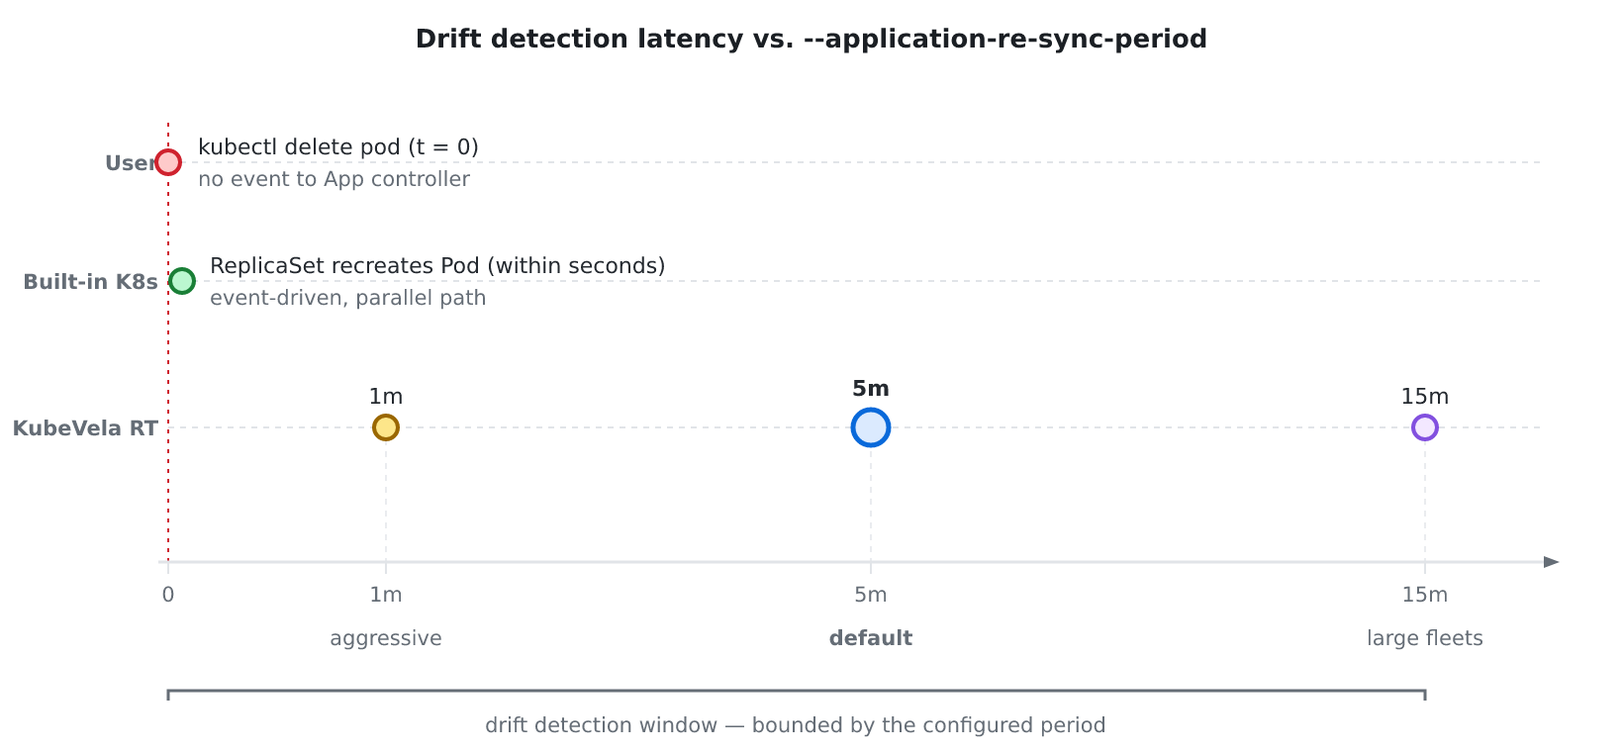
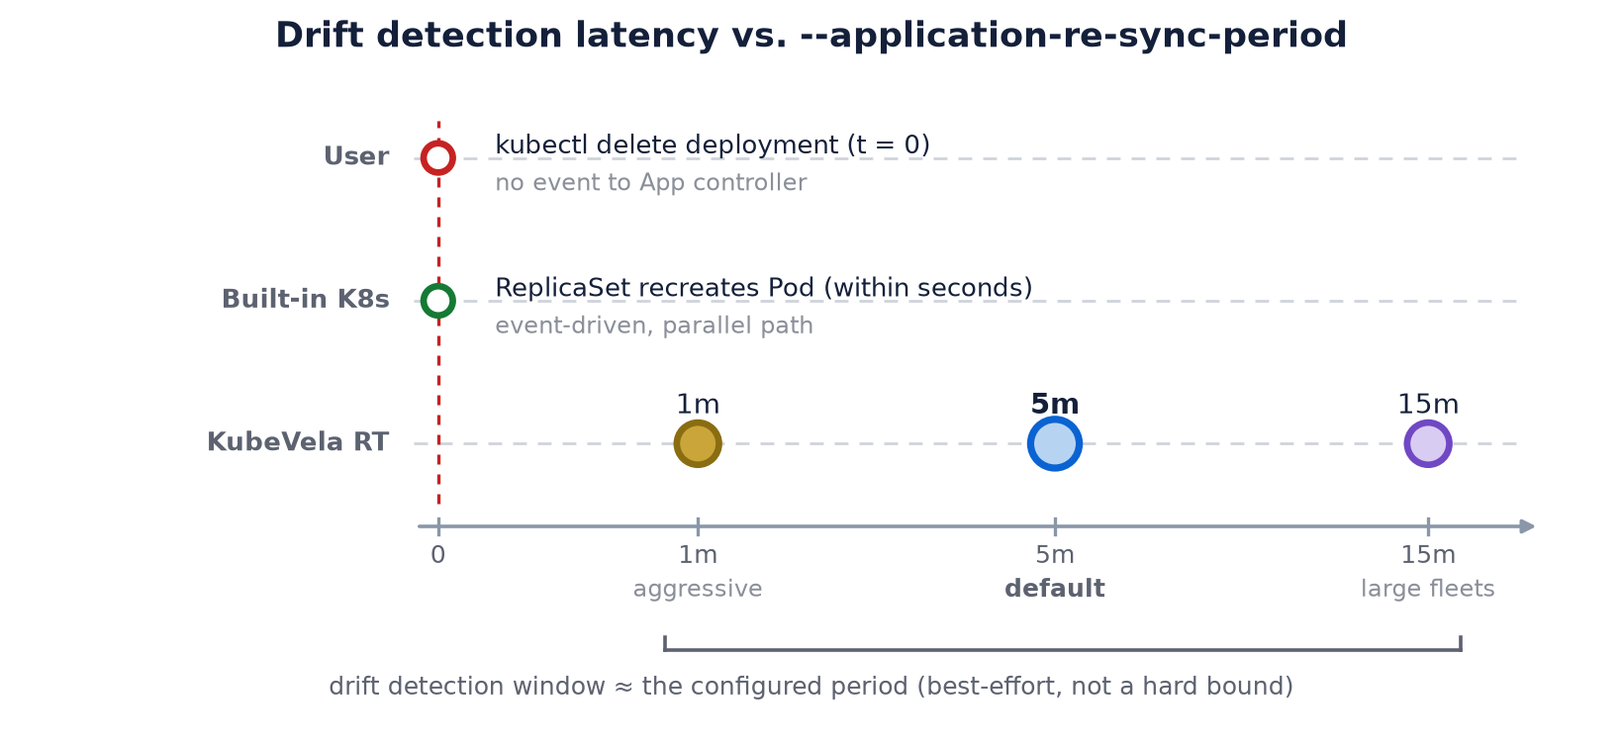
blog: verify ResourceTracker deep dive against KubeVela source and fix figures
Audit the ResourceTracker deep dive against KubeVela at commit a59bd39.
Keep the corrections that source confirms (client-side three-way patch not
SSA, health eval separate from StateKeep, memory not constant, mr.Deleted
deletes in-flow, reconcile-interval annotation, Helm QPS/burst 400/600) and
revert the rewordings that only restated verified originals.

Regenerate figures 1 and 3 to drop the inaccurate Pod/SSA/hard-bound framing:
Deployment as the tracked resource, client-side apply, and the re-sync period
shown as best-effort rather than a guaranteed ceiling.

diff --git a/blog/2026-04-26-kubevela-resourcetracker-deep-dive.md b/blog/2026-04-26-kubevela-resourcetracker-deep-dive.md
@@ -21,7 +21,7 @@ KubeVela takes a different route. The Application controller doesn't watch Pods,
 A controller needs to know when its child resources are created, modified, or deleted. The standard way to get those notifications is to register an Informer per child type. That works fine when the set of child types is small and known. It doesn't work as well when your operator is a platform that can produce any resource type its users want.
 
 :::info The question
-Look at KubeVela's controller setup and you'll notice it doesn't watch Pods, Deployments, or Services. So how does it notice when one of them gets deleted and recreate it?
+Look at KubeVela's controller setup and you'll notice it doesn't watch Deployments, Services, or other rendered kinds. So how does it notice when a directly managed resource gets deleted and recreate it?
 :::
 
 ```go
@@ -46,7 +46,7 @@ func (r *Reconciler) SetupWithManager(mgr ctrl.Manager) error {
 ```
 
 :::tip The answer
-KubeVela combines a **ResourceTracker** record with **periodic reconciliation** instead of watching child resources directly. The trade is real: you give up millisecond event-driven reaction and get back constant-memory, type-agnostic tracking.
+KubeVela combines a **ResourceTracker** record with **periodic reconciliation** instead of watching child resources directly. The trade is real: you give up millisecond event-driven reaction and get back type-agnostic tracking over a fixed watch set.
 :::
 
 ### The Traditional `.Owns()` Pattern
@@ -100,7 +100,7 @@ And you can't enumerate the types up front anyway. Users keep adding new CRDs th
 
 ### Architecture
 
-The ResourceTracker is a custom resource that holds a list of everything an Application has created. The Application controller watches three KubeVela CRDs only, and reads the ResourceTracker to know what's supposed to be in the cluster.
+The ResourceTracker is a cluster-scoped custom resource that holds a list of what an Application directly dispatched. The Application controller reads it to know what's supposed to be in the target clusters.
 
 ```text
 Application (your CR)
@@ -114,10 +114,10 @@ ResourceTracker (tracking metadata)
 
 ![Figure 2 — Three RT types per Application](/img/blog/resourcetracker-pattern/figure-2-rt-fanout.png)
 
-*Figure 2 — The three RT types each handle a different lifecycle. The `cluster` field on every entry is what enables multicluster references without OwnerReferences.*
+*Figure 2 — The three RT types each handle a different lifecycle. The `cluster` field on every entry is what enables multicluster references without OwnerReferences (a namespaced Application can't own a cluster-scoped ResourceTracker anyway, so the arrow is a logical relationship, not a Kubernetes OwnerReference).*
 
 :::info Key insight
-The Application controller watches three KubeVela CRDs: Application, ResourceTracker, and PolicyDefinition. The last one is there so that policy schema changes invalidate the cached renders. It does not watch Pods, Deployments, Services, or any other child. Three Informers total, no matter what users create.
+The Application controller watches three KubeVela CRDs: Application, ResourceTracker, and PolicyDefinition. The last one is there so that policy schema changes invalidate the cached renders. It does not watch Pods, Deployments, Services, or any other rendered child. Three watch sources for this controller, no matter what users create.
 :::
 
 ### ResourceTracker Types
@@ -138,21 +138,21 @@ This split lets KubeVela do version-aware garbage collection: clean up resources
 type ManagedResource struct {
     common.ClusterObjectReference `json:",inline"`  // apiVersion, kind, name, namespace, cluster
     common.OAMObjectReference     `json:",inline"`  // component, trait info
-    Data    *runtime.RawExtension   `json:"raw,omitempty"`     // full resource spec
+    Data    *runtime.RawExtension   `json:"raw,omitempty"`     // rendered manifest, when stored
     Deleted bool                    `json:"deleted,omitempty"` // marks for deletion
     SkipGC  bool                    `json:"skipGC,omitempty"`  // skip garbage collection
 }
 ```
 
-Each `ManagedResource` carries enough to identify the resource (for the existence check) and to recreate it (the full spec lives in `Data`). The `Deleted` flag is there for two-phase GC: a resource gets marked first, then deleted on a later pass, which leaves a window for rollback.
+Each `ManagedResource` carries enough to identify the resource, and usually stores the rendered manifest in `Data` so it can be recreated. `Data` is absent for metadata-only entries. The `Deleted` flag marks an entry for removal: StateKeep issues the delete in the same pass and prunes the entry afterward.
 
 :::info Design decision: storing full specs
-Because the full rendered spec is in `Data`, self-healing doesn't have to re-run CUE template rendering. The controller can `Apply()` the stored spec directly. That keeps the self-healing path independent of the rendering pipeline, which matters when one of those is broken and the other isn't.
+Because the rendered spec is in `Data`, self-healing doesn't have to re-run CUE template rendering. The controller can `Apply()` the stored manifest directly. That keeps the self-healing path independent of the rendering pipeline, which matters when one of those is broken and the other isn't. Entries stored without `Data` are metadata-only and StateKeep skips them.
 :::
 
 ## 3. Self-Healing Mechanism
 
-With no Informers on the children, the controller has nothing to react to when one gets deleted. So it doesn't react. It comes back on a timer and re-checks. This is eventual consistency, and it's a real departure from the event-driven model most operators use.
+With no Informer for a directly managed kind, the controller has nothing to react to when one gets deleted. So it doesn't react. It comes back on a timer and runs StateKeep. This is eventual consistency, and it's a real departure from the event-driven model most operators use.
 
 ### Periodic reconciliation
 
@@ -175,7 +175,7 @@ ApplicationReSyncPeriod = time.Minute * 5
 ```
 
 :::info Why 5 minutes?
-The default is **5 minutes**, not 30 seconds (some older docs say 30s; that's wrong for current versions). It's a deliberate choice: with thousands of Applications in a cluster, a 30s cadence would hammer the API server. Five minutes gives you reasonable detection latency without that cost. If you need faster recovery for things like Pod restarts, you already have it — Kubernetes' built-in ReplicaSet controller handles Pod recreation in seconds. KubeVela's self-healing is for the level above: re-rendering the full Application spec when something at the top has gone missing.
+The default is **5 minutes**, not 30 seconds (some older docs say 30s; that's wrong for current versions). It's a deliberate choice: with thousands of Applications in a cluster, a 30s cadence would hammer the API server. Five minutes gives you reasonable detection latency without that cost. If you need faster recovery for things like Pod restarts, you already have it — Kubernetes' built-in ReplicaSet controller handles Pod recreation in seconds. KubeVela's StateKeep path is for directly tracked resources such as the Deployment itself.
 :::
 
 ### Health check pipeline
@@ -196,12 +196,7 @@ func evalStatus(ctx, handler, appFile, appParser) bool {
 }
 ```
 
-The health pipeline does more than check whether things exist. For each tracked resource it:
-
-1. Fetches the resource from the API server using the reference in the ResourceTracker
-2. Runs a type-specific health check (Deployment readiness, Pod status, and so on)
-3. Compares actual state to the desired state stored in `Data` to detect drift
-4. Re-applies the desired state via server-side apply if drift is found
+Health evaluation is separate from StateKeep. StateKeep reads the current and root ResourceTrackers and passes each eligible stored manifest to KubeVela's applicator. The applicator creates a missing object or computes a client-side three-way patch for an existing one; it skips the write when the patch is empty. This is not Kubernetes server-side apply.
 
 ## 4. Tuning the ResourceTracker Reconcile Window
 
@@ -209,11 +204,11 @@ The 5-minute default from Section 3 isn't a fixed property of the system. The pe
 
 ![Figure 1 — Drift detection latency vs. --application-re-sync-period](/img/blog/resourcetracker-pattern/figure-1-reconcile-window.png)
 
-*Figure 1 — Each marker is one possible value of `--application-re-sync-period`. The bracket shows the worst-case time before KubeVela notices higher-level drift. Spacing is for clarity, not linear time.*
+*Figure 1 — Each marker is one possible value of `--application-re-sync-period`. The detection window is roughly the configured period, but it's best-effort, not a hard bound: queueing, client throttling, failed reconciles, and controller downtime can all push detection later. Deleting a Pod is a separate path, handled by its ReplicaSet in seconds. Spacing is for clarity, not linear time.*
 
 ### The flag — `--application-re-sync-period`
 
-The flag takes a Go `time.Duration` string (`30s`, `1m`, `15m`, …) and defaults to `5m`. There are two ways to set it depending on whether you run the binary directly or use the Helm chart.
+The flag takes a Go `time.Duration` string (`30s`, `1m`, `15m`, …) and defaults to `5m`. Set it globally through the binary or Helm chart. An individual Application can override it with the `app.oam.dev/reconcile-interval` annotation; invalid values or durations below `10s` fall back to the global value.
 
 **Direct CLI**
 
@@ -230,13 +225,13 @@ controllerArgs:
 
 ### Trade-offs
 
-The cost calculation is simple. On every cycle, the controller walks every `ManagedResource` in every `ResourceTracker`, does a `Get` per resource against the API server, and an `Apply` when drift is detected. The period is the divisor on the cluster-wide work rate.
+On every StateKeep cycle, the controller reads tracked resources and calls the applicator for eligible entries that contain `Data`. The applicator skips the write when its computed patch is empty. The period is the divisor on this recurring work.
 
 | Direction | What you gain | What you pay |
 |---|---|---|
-| **Shorter** (e.g. `1m`) | Faster recovery from higher-level drift — deleted Deployments, missing ConfigMaps, removed Services, mutated Ingresses. | API server reads scale roughly as `Σ tracked resources / period`. With 500 Apps × 8 resources × 60s period that is ~67 reads/sec just for health checks. Status updates and drift re-applies stack on top. |
-| **Default** (`5m`) | Balanced for typical fleets up to ~1000 Applications. | Drift detection latency ≤ 5 minutes. Pod-level drift unaffected (handled in milliseconds by Kubernetes' built-in controllers). |
-| **Longer** (e.g. `15m`) | Lower steady-state API server pressure on large fleets. Frees headroom to raise `--concurrent-reconciles` for spec-change throughput without overloading etcd. | Drift detection latency up to 15 minutes. A deleted Service, ConfigMap or Ingress stays missing for that window. Acceptable when the platform is trusted and you let lower-level controllers handle pod-level recovery. |
+| **Shorter** (e.g. `1m`) | Faster recovery from higher-level drift — deleted Deployments, missing ConfigMaps, removed Services, mutated Ingresses. | API server reads scale roughly as `Σ tracked resources / period`. With 500 Apps × 8 resources × 60s period that is ~67 StateKeep reads/sec. Status updates and patches stack on top. |
+| **Default** (`5m`) | Balanced for typical fleets up to ~1000 Applications. | Recovery normally waits for a scheduled reconcile and can take longer than 5 minutes when delayed. Pod-level recovery remains with Kubernetes' built-in controllers. |
+| **Longer** (e.g. `15m`) | Lower steady-state API server pressure on large fleets. Frees headroom to raise `--concurrent-reconciles` for spec-change throughput without overloading etcd. | A deleted Service, ConfigMap or Ingress normally stays missing for that window and possibly longer. Acceptable when lower-level controllers handle pod recovery. |
 
 ### Companion knobs
 
@@ -246,9 +241,9 @@ These flags all interact in this area. Keep them straight before changing anythi
 |---|---|---|
 | `--application-re-sync-period` | `5m` | Period between RT re-evaluation cycles. **This is the one you usually want.** Helm: `controllerArgs.reSyncPeriod`. |
 | `--concurrent-reconciles` | `4` | Worker count for the Application controller. Raise this if shortening the period creates a queue backlog. Helm: `concurrentReconciles`. |
-| `--informer-sync-period` | `10h` | Kubernetes Informer cache full-resync interval. Not related to the RT reconcile loop and almost never worth touching. |
-| `--kube-api-qps` | `50` | QPS limit on the controller's API client. If you raise `--concurrent-reconciles`, raise this proportionally or you will hit client-side throttling silently. |
-| `--kube-api-burst` | `100` | Burst limit on the API client. The flag's own help text recommends keeping it at `qps × 2`; bump it alongside `--kube-api-qps`. |
+| `--informer-sync-period` | `10h` | Informer handler-resync interval. Not the RT reconcile loop, and not a guaranteed full API re-list. Almost never worth touching. |
+| `--kube-api-qps` | `50` (binary) | QPS limit on the controller's API client. The Helm chart ships `400`. If you raise `--concurrent-reconciles`, raise this too or you will hit client-side throttling silently. |
+| `--kube-api-burst` | `100` (binary) | Burst limit on the API client. The Helm chart ships `600`. Bump it alongside `--kube-api-qps`. |
 
 ### Tuning recipes
 
@@ -262,46 +257,40 @@ Starting points, not benchmarks. Profile after any change. The right setting dep
 | Edge / quiet workloads, very high stability | `30m`+ | `4` | `50` / `100` (defaults) |
 
 :::warning Don't tune blindly
-Before shortening the period, check whether the drift you care about actually needs it. Pod restarts, `CrashLoopBackOff` recovery, Deployment scale-up — Kubernetes handles all of that in seconds without help from the RT loop. The RT period only matters when something deletes or modifies a top-level resource owned by the Application.
+Before shortening the period, check whether the drift you care about actually needs it. Pod restarts, `CrashLoopBackOff` recovery, Deployment scale-up — Kubernetes handles all of that in seconds without help from the RT loop. The RT period only matters when something deletes or modifies a resource directly tracked for the Application.
 
 If your postmortem says *"we lost a ConfigMap and didn't notice for five minutes"*, a shorter period helps. If it says *"a Pod CrashLooped"*, the period is irrelevant and you should be looking at probes, resource limits, or the image instead.
 :::
 
 ## 5. Complete Flow: Deletion to Recreation
 
-Walk through what happens when someone manually deletes a Pod that came from a KubeVela Application.
+Walk through what happens when someone manually deletes a Deployment that KubeVela directly dispatched.
 
-![Figure 3 — Pod deletion → 5-minute silence → periodic reconcile → re-apply](/img/blog/resourcetracker-pattern/figure-3-deletion-flow.png)
+![Figure 3 — A directly managed Deployment is deleted, then re-applied on the next periodic reconcile](/img/blog/resourcetracker-pattern/figure-3-deletion-flow.png)
 
-*Figure 3 — The Application controller hears nothing about the deletion (no Pod Informer) and only wakes up when the next re-sync timer fires. The five steps below trace each phase.*
+*Figure 3 — The App controller hears nothing when the Deployment is deleted, because it runs no Deployment Informer. It notices on the next re-sync and re-applies the stored manifest with a client-side three-way patch. The 5-minute mark is the default period, not a guaranteed ceiling: queueing or controller downtime can push it out.*
 
-**Step 1: Pod deletion**
+**Step 1: Deployment deletion**
 
-Someone runs `kubectl delete pod my-app-pod-1`. The API server drops the Pod from etcd. The Application controller hears nothing about it because there is no Pod Informer.
+Someone runs `kubectl delete deployment my-app`. The API server removes the Deployment. The Application controller hears nothing about it because there is no Deployment Informer. A Pod would be recreated by its ReplicaSet and is not the directly tracked resource in this example.
 
-If the Pod is owned by a Deployment, the ReplicaSet controller puts it back within seconds. That's not KubeVela's job. KubeVela's self-healing lives one layer above.
+**Step 2: Periodic reconciliation becomes eligible**
 
-**Step 2: Periodic reconciliation fires (up to 5 min later)**
-
-The re-sync timer eventually goes off. `Reconcile(ctx, Request{Name: "my-app"})` runs, and the work queue hands the Application to a worker.
+The re-sync timer eventually goes off. `Reconcile(ctx, Request{Name: "my-app"})` runs, and the work queue hands the Application to a worker. Queueing or controller downtime can extend the delay beyond the configured period.
 
 **Step 3: ResourceTracker lookup**
 
-The reconciler reads the Application CR and pulls its ResourceTracker(s). Each tracker entry is a `ManagedResource` carrying the full rendered spec in `Data`.
+The reconciler reads the Application CR and its current and root ResourceTrackers. Entries with `Data` carry the rendered manifest; metadata-only entries are not reapplied.
 
-**Step 4: Health check & drift detection**
+**Step 4: StateKeep and apply**
 
-For each `ManagedResource`, the controller does the obvious thing:
+For each eligible stored manifest, StateKeep calls the applicator:
 
 ```go
-r.Get(ctx, namespacedName, &obj)
-if apierrors.IsNotFound(err) {
-    // Resource should exist but doesn't! Re-apply it.
-    r.Apply(ctx, desiredSpec)
-}
+h.applicator.Apply(applyCtx, manifest, applyOptions...)
 ```
 
-If the resource is gone, re-apply it. If it's still there but drifted, server-side apply pushes the desired state back in.
+If the resource is gone, the applicator creates it. Otherwise it computes a client-side three-way patch and skips an empty patch.
 
 **Step 5: Recreation & requeue**
 
@@ -311,7 +300,7 @@ Anything missing or drifted gets re-applied, the Application status is rewritten
 return ctrl.Result{RequeueAfter: 5 * time.Minute}, nil
 ```
 
-Then it goes back to sleep until the timer fires again.
+`RequeueAfter` schedules later work; it is not an upper-bound latency guarantee.
 
 :::info Layered self-healing
 KubeVela's self-healing rides on top of Kubernetes' built-in controllers, not in place of them. Delete a Pod under a Deployment and the ReplicaSet controller has it back in seconds. The 5-minute KubeVela loop is for the layer above that: deleted Deployments, modified Services, missing ConfigMaps, whole resource graphs that need to come back.
@@ -321,13 +310,13 @@ KubeVela's self-healing rides on top of Kubernetes' built-in controllers, not in
 
 Any controller that updates its own `status` during reconciliation can loop on itself: the status write fires an event, the event triggers another reconcile, that reconcile writes status again. KubeVela's Application controller is more exposed to this than most. A single pass can update workflow progress, health results, and the applied-resource list, each one a separate write.
 
-The fix is event predicates: filters that decide whether an update event is worth reacting to. The rule is simple — only reconcile when a human (or some external system) changed the spec, or when the periodic timer fires. Everything else is the controller talking to itself and can be dropped.
+The fix is event predicates: filters that decide whether an update event is worth reacting to. The rule is simple: only reconcile when a human (or some external system) changed the spec, or when the periodic timer fires. The predicate normalizes the controller's own status writes (workflow steps, applied resources, services) and then compares what's left, so a pass that only touched those fields is dropped.
 
 | What changed? | Decision | Why |
 |---|---|---|
 | User edited the `spec` (generation incremented) | ✓ Reconcile | User intent — always honor |
 | Periodic re-sync (old == new) | ✓ Reconcile | Health check trigger |
-| Workflow progress, phase transitions, applied resources | ✗ Skip | Controller's own writes — not user action |
+| Workflow steps, applied resources, services | ✗ Skip | Controller's own writes, normalized out before comparison |
 | `managedFields` or `resourceVersion` only | ✗ Skip | API server bookkeeping |
 
 :::info ResourceTracker: delete-only trigger
@@ -358,7 +347,7 @@ This works because the controller already reconciles Applications on a timer. It
 
 ![Figure 4 — Two paths from a child event to the Application reconcile queue](/img/blog/resourcetracker-pattern/figure-4-owns-vs-watches.png)
 
-*Figure 4 — `.Owns()` reads OwnerReferences from each child type's Informer. `.Watches()` reads ResourceTracker labels through the custom MapFunc `findObjectForResourceTracker`.*
+*Figure 4 — `.Owns()` reads OwnerReferences from each child type's Informer. `.Watches()` reads ResourceTracker labels through the custom MapFunc `findObjectForResourceTracker`. Note the delete-only optimization below: routine healing rides the periodic reconcile, not this event path.*
 
 ### `findObjectForResourceTracker`
 
@@ -380,20 +369,20 @@ func findObjectForResourceTracker(_ context.Context, rt client.Object) []reconci
 }
 ```
 
-Instead of reading the OwnerReference from a child's metadata, this function reads labels off the ResourceTracker (`app.oam.dev/name`, `app.oam.dev/namespace`) to find the owning Application. That breaks the dependency on Kubernetes' ownership model, which is what makes cross-namespace and cross-cluster references possible.
+Instead of reading the OwnerReference from a child's metadata, this function reads labels off the ResourceTracker (`app.oam.dev/name`, `app.oam.dev/namespace`) to find the owning Application. That breaks the dependency on Kubernetes' ownership model, which is what makes cross-namespace references possible. Cross-cluster is a separate mechanism: it comes from the `cluster` field in `ClusterObjectReference` and KubeVela's multicluster client, not from `.Watches()` alone.
 
 ## 8. Pattern Comparison
 
 | Aspect | Traditional `.Owns()` | KubeVela ResourceTracker |
 |---|---|---|
-| Informers needed | One per child type — O(n) | Three total — O(1) |
-| Memory cache | All instances of each watched type | Only Applications, ResourceTrackers & PolicyDefinitions |
-| Detection latency | Milliseconds (event-driven) | Up to 5 min (periodic) |
-| New CRD support | Requires code change + controller restart | Automatic — no changes needed |
+| Informers needed | One per child type (O(n)) | Three total (O(1)) |
+| Memory cache | All instances of each watched type | Applications, ResourceTrackers, and PolicyDefinitions, plus tracker payload that grows with the managed resources |
+| Detection latency | Milliseconds (event-driven) | Periodic (default 5 min), not a hard bound |
+| New CRD support | Requires code change + controller restart | Automatic, no changes needed |
 | Cross-namespace | ✗ Not supported (OwnerRef requires same namespace) | ✓ Supported via label-based mapping |
 | Cross-cluster | ✗ Not supported | ✓ Supported (`ClusterObjectReference`) |
 | API server watch streams | One per resource type | Three total |
-| Garbage collection | Kubernetes built-in (cascading delete via OwnerRef) | Custom GC with versioned tracking & two-phase delete |
+| Garbage collection | Kubernetes built-in (cascading delete via OwnerRef) | Custom GC with versioned tracking and two-phase delete |
 | Rollback support | Not built-in | Versioned ResourceTrackers enable revision history |
 | Implementation complexity | Simple (1 line per type) | Significant (custom CRD, GC logic, health pipeline) |
 
@@ -403,7 +392,7 @@ The ResourceTracker pattern isn't there for performance. It comes out of a few a
 
 ### 1. Type agnosticism
 
-KubeVela's whole pitch is that users write workloads as CUE templates — ComponentDefinitions, TraitDefinitions — and those templates can render any Kubernetes resource type. The controller can't know its child types at compile time. `.Owns()` requires every type to be registered at compile time. Those two facts don't fit together.
+KubeVela's whole pitch is that users write workloads as CUE templates (ComponentDefinitions, TraitDefinitions), and those templates can render any Kubernetes resource type. The controller can't know its child types at compile time. `.Owns()` requires every type to be registered up front. Those two facts don't fit together.
 
 ### 2. Multicluster resource management
 
@@ -411,23 +400,23 @@ KubeVela ships workloads across multiple clusters through the cluster gateway. O
 
 ### 3. Version-aware lifecycle management
 
-Versioned ResourceTrackers keep a record of which resources belonged to which Application revision. That gets you:
+Versioned ResourceTrackers record which resources belonged to a given Application version, keyed on its generation or an explicit `app.oam.dev/publishVersion`. That gets you:
 
-- **Rollback:** re-activate an older version's ResourceTracker (via the `app.oam.dev/publishVersion` annotation) and you have the exact resource set from that revision back.
+- **Rollback:** point the Application back at an older publish version and its ResourceTracker brings that exact resource set back.
 - **Safe GC:** old versioned RTs are kept around as history. Their resources are only garbage collected once a newer RT has taken responsibility for managing them.
 
 ### 4. Separation of concerns
 
-The ResourceTracker draws a line between the rendering pipeline (CUE evaluation, resource generation) and the dispatch pipeline (apply, track, self-heal). Rendering writes to the tracker. Dispatch reads from it. Neither has to know how the other works.
+The ResourceTracker draws a line between the rendering pipeline (CUE evaluation, resource generation) and the dispatch pipeline (apply, track, self-heal). Dispatch records the rendered manifests in the tracker before applying them. StateKeep reads them back later. Neither has to know how the other works.
 
 ### 5. Bounded resource consumption
 
-In a cluster with 100 CRD types and 50,000 total resources, the `.Owns()` approach would cache all 50,000 across 100 Informers. KubeVela caches Application, ResourceTracker, and PolicyDefinition objects only, which is usually orders of magnitude fewer. Memory tracks the number of Applications, not the number of managed resources or resource types.
+With 100 CRD types and 50,000 resources in a cluster, the `.Owns()` approach would cache all 50,000 across 100 Informers just to route child events. KubeVela's Application controller adds no Informer per rendered type, so it avoids that cache entirely. Memory still isn't constant, though: ResourceTracker count and payload grow with the number of Applications, their retained versions, and the manifests stored in `Data`.
 
 :::warning The trade-off is real
 There are real costs:
 
-- Detection latency up to 5 minutes (configurable via `ApplicationReSyncPeriod`)
+- Recovery waits for periodic reconciliation and can exceed the configured period
 - API server load from periodic GETs against every tracked resource
 - Custom GC logic instead of Kubernetes' built-in cascading delete
 - The controller has to handle stale RT data without breaking
@@ -480,7 +469,7 @@ For each child type you want to watch:
 - Look up the parent through a Lister
 - Enqueue the parent's key into the work queue
 
-Cost: roughly 100 lines per child type. Three child types = nine handler functions and around 300 lines.
+Cost: roughly 100 lines per child type. Three child types work out to about nine handler functions and around 300 lines.
 :::
 
 You also build the OwnerReference yourself when creating each child. Every field (`apiVersion`, `kind`, `name`, `uid`, `controller: true`) is yours to get right.
@@ -528,12 +517,12 @@ ctrl.NewControllerManagedBy(mgr).
     Watches(&v1beta1.PolicyDefinition{}, ...).
     Complete(r)
 // Three Informers total: Application, ResourceTracker, PolicyDefinition.
-// None of them is a managed child. Handles Pods, Deployments, Services,
+// None of them is a managed child. Handles Deployments, Services,
 // Istio VirtualServices, Crossplane RDS instances, user-defined CRDs.
 // Anything, dynamically, with zero .Owns() calls.
 ```
 
-Instead of registering a watch per type, the ResourceTracker records what got created. Instead of an OwnerReference-driven event mapping, the controller polls tracked resources on a timer to see whether they still exist. The ownership model moves from "embedded in the child" to "written down in a separate record".
+Instead of registering a watch per type, the ResourceTracker records what got dispatched. Instead of an OwnerReference-driven event mapping, the controller revisits tracked resources on a timer to see whether they still exist. The ownership model moves from "embedded in the child" to "written down in a separate record".
 
 ### The abstraction spectrum
 
@@ -570,12 +559,16 @@ Each level trades simplicity for flexibility:
 - Eventual consistency in the seconds-to-minutes range is acceptable
 
 :::tip The bottom line
-ResourceTracker isn't a replacement for `.Owns()`. It solves a different problem. Traditional operators know their child types at compile time. Platform engines like KubeVela don't. If you're writing a small operator, use `.Owns()`. If you're writing a platform that manages dynamic, user-defined workloads across cluster boundaries, the ResourceTracker pattern is worth studying as one way to do type-agnostic self-healing with bounded memory.
+ResourceTracker isn't a replacement for `.Owns()`. It solves a different problem. Traditional operators know their child types when registering watches. Platform engines like KubeVela don't. If you're writing a small operator, use `.Owns()`. If you're writing a platform that manages dynamic, user-defined workloads across cluster boundaries, the ResourceTracker pattern is worth studying as one way to do type-agnostic self-healing with a fixed managed-kind watch set.
 :::
 
 ## 12. Case Study: Crossplane RBAC Manager OOMs at Scale
 
 Up to here the argument has been theoretical: unbounded watches make controller memory grow with cluster size. Here's a production failure where that growth crossed the memory limit, and a look at why the same failure mode can't happen to KubeVela's Application controller.
+
+:::caution Source boundary
+The incident measurements below need a primary incident citation. Upstream source verifies the watch, cache, and list behavior, not the reported OOM counts or memory figures.
+:::
 
 ### What happened
 
@@ -583,9 +576,9 @@ A team running Crossplane across a fleet of clusters hit a confusing problem. Th
 
 - 56 `OOMKilled` events (exit code 137), roughly four per day
 - Each crash hit within about 20 seconds of pod start, during initial informer cache sync
-- Re-kills lined up with the controller's hourly `SyncPeriod` cache re-LIST, when controller-runtime re-fetches every watched object from the API server
+- Re-kills were observed near the controller's hourly `SyncPeriod`; that setting requests resync events and does not itself guarantee a full API re-list
 
-In the windows where the pod stayed up, steady-state memory was around 293 MiB, less than a seventh of the limit. So this wasn't a slow leak burning down to the limit. The pod ran comfortably for hours, then died in a single sub-minute spike during a re-LIST.
+In the windows where the pod stayed up, steady-state memory was around 293 MiB, less than a seventh of the limit. So this wasn't a slow leak burning down to the limit. The pod ran comfortably for hours, then died in a single sub-minute spike.
 
 What looked like a leak wasn't one. By every Crossplane-internal number the controller was fine. It was managing about 36 ProviderRevisions and 680 ClusterRoles, both well inside the design envelope. The thing that was actually driving memory growth was outside Crossplane's own resource graph, and none of those metrics caught it.
 
@@ -617,34 +610,35 @@ return ctrl.NewControllerManagedBy(mgr).
 
 `Watches(&appsv1.Deployment{}, ...)` registers an informer on Deployments. The informer's cache is what holds the objects, and there is no namespace filter, no field selector, and no `cache.ByObject` constraint anywhere in the manager setup. Every Deployment in the cluster, regardless of who owns it, gets materialized in the controller's informer cache. The handler-level owner filter narrows the *event* path; it does not narrow the *cache* path. Cache cost is `O(cluster Deployment count)`, not `O(Crossplane-managed resources)`.
 
-At 600 Deployments the cache fits comfortably inside 2 GiB. At 6,073, the periodic re-LIST occasionally pushes the working set above 2 GiB and the kernel's OOM-killer takes the process down. Same Helm chart, same providers, same memory limit. The only thing that changed was the count of unrelated Deployments, and that was enough to crash the controller.
+In the reported incident, the cache fit inside 2 GiB at roughly 600 Deployments and the working set crossed the limit at 6,073. The source confirms the unfiltered cache and list path, but proving that path caused the measured spike requires incident evidence such as heap profiles.
 
-### Why KubeVela doesn't have this failure mode
+### Why KubeVela's watch shape is different
 
-The KubeVela Application controller doesn't watch `Deployment` at all. Its `SetupWithManager` registers three Informers (Application, ResourceTracker, PolicyDefinition) and that set is fixed no matter what users build on top of it. Pods, Deployments, Services, Ingresses, custom CRDs — none of them sit in the controller's cache. The cluster can have 60 Deployments or 60,000 and the controller's memory footprint looks the same.
+The KubeVela Application controller doesn't watch `Deployment` at all. Its `SetupWithManager` registers three builder sources (Application, ResourceTracker, PolicyDefinition), and that set is fixed no matter what users build on top of it. Unstructured managed-resource reads bypass KubeVela's local cache by default unless a GVK is explicitly opted in.
 
-The property that matters: the controller's memory profile is decoupled from the cluster's resource inventory. It scales with the number of Applications you've defined, not with anything else in the cluster.
+Unrelated Deployments therefore do not enter this controller's Deployment cache. Memory still grows with Applications, ResourceTrackers, retained versions, and stored manifest payloads.
 
 | | Crossplane RBAC manager | KubeVela Application controller |
 |---|---|---|
 | Watches `Deployment` | Yes (unfiltered, cluster-wide) | No |
-| Cache footprint scales with | Total Deployments in cluster | Number of Applications defined |
-| Effect of growing cluster | Memory grows linearly → eventual OOM | No effect |
-| 6,000 Deployments outcome | OOMKilled, 56 restarts in 13 days | Unchanged |
-| Mitigation needed | Raise limit, lower concurrency, add filters | None — bounded by design |
+| Relevant cache footprint scales with | Deployments visible to the manager | Applications and tracker count/payload |
+| Effect of unrelated Deployments | They enter the Deployment cache | They do not enter this controller's Deployment cache |
+| 6,000 Deployments outcome | OOMKilled in the reported incident | Not established by source |
+| Mitigation needed | Cache selectors or other measured tuning | Different trade-off: tracker storage and periodic API work |
 
 ### The lesson
 
-Any controller that uses `.Owns()` or unfiltered `.Watches()` on a high-cardinality, cluster-scoped type inherits that type's growth as a memory cost. The bug isn't in the cluster size. It's in the watch set. The RBAC manager works at small scale because the watch set's cost stays under the limit. It fails at large scale because nothing in the design ever bounded that cost.
+Any controller that uses `.Owns()` or unfiltered `.Watches()` cluster-wide on a high-cardinality type inherits that visible inventory as a cache cost. The handler's owner filter does not filter the cache. In the reported incident, the watch set stayed under the limit at small scale and exceeded it at large scale.
 
-The ResourceTracker pattern doesn't try to filter the watch set. It removes the high-cardinality types from the watch set entirely and replaces direct watching with record-and-poll. That's why memory is bounded by what KubeVela manages, not by what else happens to exist in the cluster. It's not a stylistic choice. It's the design property that makes the failure mode above not apply.
+The ResourceTracker pattern removes rendered managed kinds from this controller's watch set and replaces direct watching with record-and-reconcile. That avoids this specific cache shape. It is not free: the cost shifts to ResourceTracker storage and periodic API work.
 
 ---
 
 **References**
 
-- KubeVela source: [github.com/kubevela/kubevela](https://github.com/kubevela/kubevela)
+- KubeVela source (audited at [`a59bd39`](https://github.com/kubevela/kubevela/tree/a59bd39e725ba35952cf828458143e4b2b0c4dd6)): [github.com/kubevela/kubevela](https://github.com/kubevela/kubevela)
 - Application controller: [`pkg/controller/core.oam.dev/v1beta1/application/application_controller.go`](https://github.com/kubevela/kubevela/blob/master/pkg/controller/core.oam.dev/v1beta1/application/application_controller.go)
 - ResourceTracker types: [`apis/core.oam.dev/v1beta1/resourcetracker_types.go`](https://github.com/kubevela/kubevela/blob/master/apis/core.oam.dev/v1beta1/resourcetracker_types.go)
 - Kubernetes sample-controller: [github.com/kubernetes/sample-controller](https://github.com/kubernetes/sample-controller)
 - controller-runtime: [github.com/kubernetes-sigs/controller-runtime](https://github.com/kubernetes-sigs/controller-runtime)
+- Crossplane RBAC manager: [binding reconciler](https://github.com/crossplane/crossplane/blob/231dd83a48fe7a4b9c06c8c94735c365f3da40b6/internal/controller/rbac/provider/binding/reconciler.go), [cache configuration](https://github.com/crossplane/crossplane/blob/231dd83a48fe7a4b9c06c8c94735c365f3da40b6/cmd/crossplane/rbac/rbac.go#L77-L86)
